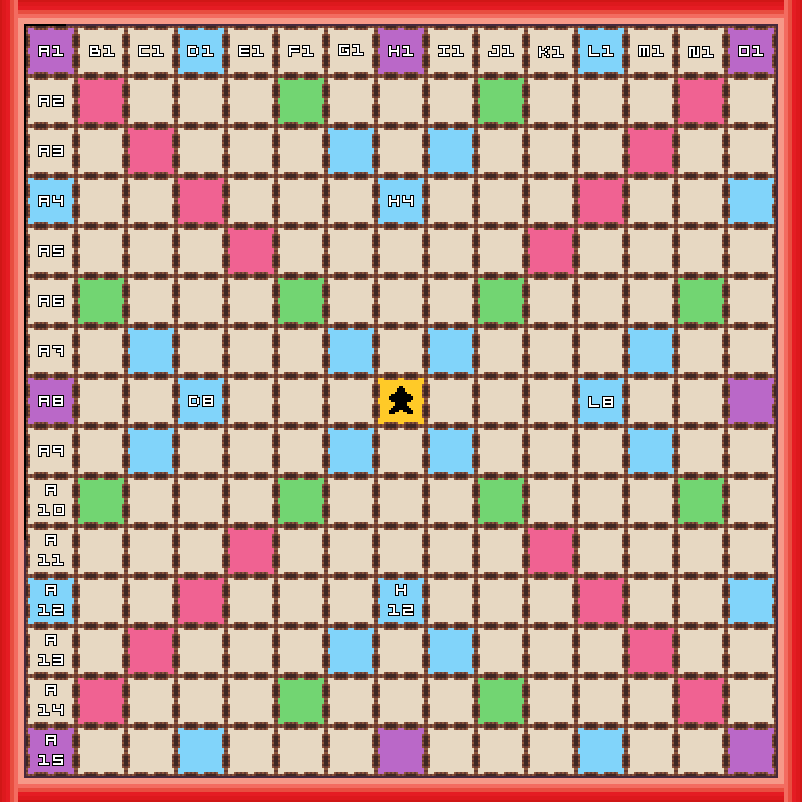
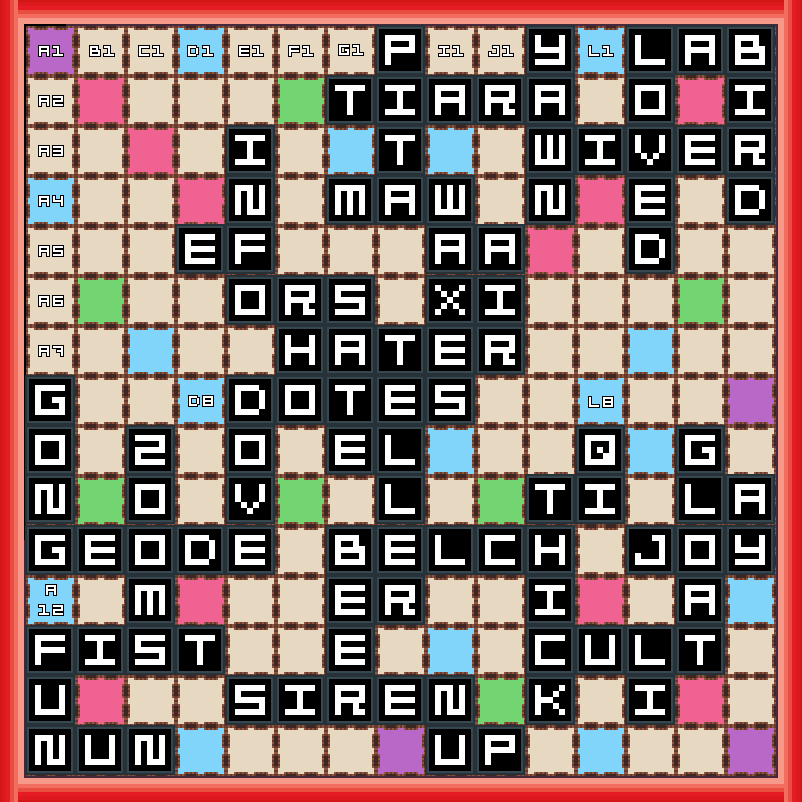
Fixes

diff --git a/RinaWordGames.py b/RinaWordGames.py
@@ -217,8 +217,8 @@ class RinaScrabble(commands.Cog):
             match = [author for author in self.players if author.discordInfo == ctx.message.author]
             if len(match) == 0:
                 await ctx.send("**🌟You are not a player in this Scrabble game and cannot start the game🌟**")
-            elif self.scrabblePlayers > 4 or self.scrabblePlayers < 2:
-                await ctx.send("**🌟There are not between 2-4 memebers in the Scrabble lobby!🌟**")
+            #elif self.scrabblePlayers > 4 or self.scrabblePlayers < 2:
+                #await ctx.send("**🌟There are not between 2-4 memebers in the Scrabble lobby!🌟**")
             else:
                 await ctx.send("**🌟Starting Game!🌟**")
                 self.scrabbleTurn = 1
@@ -294,13 +294,16 @@ class RinaScrabble(commands.Cog):
                                     pLetters += letter + " "
                                 embeded.add_field(name=player.discordInfo.nick + "'s letters:", value="||" + pLetters + "||")
                             await ctx.send(embed=embeded, file=discord.File(open(self.boardRenderDynamicPath, 'rb')))
-                            await ctx.send("**🌟Successful Entry! Words Created:🌟**")
+                            embeded = discord.Embed(description="**🌟Turn " + str(self.scrabbleTurn) + " Player " + str(self.players[self.scrabbleRotation].discordInfo.nick) + "🌟**")
+                            embeded.add_field(name="Words Created", value=str(len(validityResult[1])))
                             totalPoints = 0
                             for entry in validityResult[1]:
-                                await ctx.send(''.join(i for i in entry[0] if not i.isdigit()) + ' - Points: ' + str(entry[1]))
+                                embeded.add_field(name=''.join(i for i in entry[0] if not i.isdigit()), value='points: ' + str(entry[1]))
                                 totalPoints += entry[1]
                             self.players[self.scrabbleRotation].points += totalPoints
-
+                            embeded.add_field(name="Total points from this turn", value=str(totalPoints))
+                            embeded.add_field(name="Total player points", value=str(self.players[self.scrabbleRotation].points))
+                            embeded.add_field(name="Letters left in the bag", value=str(len(self.letterBag)))
                             self.scrabbleRotation += 1
                             if self.scrabbleRotation >= self.scrabblePlayers:
                                 self.scrabbleRotation = 0
@@ -310,7 +313,8 @@ class RinaScrabble(commands.Cog):
                                 if self.scrabbleRotation >= self.scrabblePlayers:
                                     self.scrabbleRotation = 0
                                     self.scrabbleTurn += 1
-                            await ctx.send("**🌟Player " + str(self.scrabbleRotation + 1) + " is " + self.players[self.scrabbleRotation].discordInfo.nick + "🌟**")
+                            embeded.add_field(name="Next Player", value="**" + self.players[self.scrabbleRotation].discordInfo.nick + "**")
+                            await ctx.send(embed=embeded)
                     else:
                         await ctx.send(validityResult[0])
 
@@ -343,6 +347,8 @@ class RinaScrabble(commands.Cog):
         allWords = []     
         playerTiles = []
         for i in range(len(tiles)):
+            if not self.board[tiles[i]].__contains__('*') and not self.board[tiles[i]] == word[i]:
+                return ["**🌟That word does not match with the letters on the board!🌟**", None]
             if not self.board[tiles[i]].__contains__('*'):
                 playerTiles.append(tiles[i])
             validArr = []
@@ -382,10 +388,13 @@ class RinaScrabble(commands.Cog):
         if len(playerTiles) == len(tiles) and not (self.scrabbleTurn == 1 and self.scrabbleRotation == 0):
             return ["**🌟Your word is not connected to another word!🌟**", None]
         print(allWords)
+        if len(playerTiles) == 7:
+            for entry in allWords:
+                entry[1] *= 2
         return ["valid", allWords, playerTiles]
                 
     def validate_word_branch_left(self, startTile, nextTile, buildWord, buildPoints, direction, inputWord, inputTiles):
-        print("left " + buildWord)
+        print("left " + buildWord + " " + str(buildPoints))
         tileComponents = re.split('(\d+)', nextTile)
         if not tileComponents[0] == 'a':
             nextTile = self.letters[self.letters.index(tileComponents[0]) - 1] + tileComponents[1]
@@ -394,12 +403,12 @@ class RinaScrabble(commands.Cog):
                 buildPoints += self.lettersPoints[self.board[nextTile]]
                 return self.validate_word_branch_left(startTile, nextTile, buildWord, buildPoints, direction, inputWord, inputTiles)
             else:
-                return self.validate_word_branch_right(startTile, nextTile, buildWord, buildPoints, direction, inputWord, inputTiles)
+                return self.validate_word_branch_right(startTile, startTile, buildWord, buildPoints, direction, inputWord, inputTiles)
         else:
-            return self.validate_word_branch_right(startTile, nextTile, buildWord, buildPoints, direction, inputWord, inputTiles)
+            return self.validate_word_branch_right(startTile, startTile, buildWord, buildPoints, direction, inputWord, inputTiles)
 
     def validate_word_branch_right(self, startTile, nextTile, buildWord, buildPoints, direction, inputWord, inputTiles):
-        print("right " + buildWord)
+        print("right " + buildWord + " " + str(buildPoints))
         tileComponents = re.split('(\d+)', nextTile)
         if not tileComponents[0] == 'o':
             nextTile = self.letters[self.letters.index(tileComponents[0]) + 1] + tileComponents[1]
@@ -410,8 +419,10 @@ class RinaScrabble(commands.Cog):
             elif direction == '→' and inputTiles.__contains__(nextTile):
                 buildWord += (inputWord[inputTiles.index(nextTile)])
                 if self.board[nextTile].__contains__('*w2'):
+                    buildPoints += self.lettersPoints[buildWord[len(buildWord) - 1]]
                     buildWord += '2'
                 elif self.board[nextTile].__contains__('*w3'):
+                    buildPoints += self.lettersPoints[buildWord[len(buildWord) - 1]]
                     buildWord += '3'
                 elif self.board[nextTile].__contains__('*l2'):
                     buildPoints += self.lettersPoints[buildWord[len(buildWord) - 1]] * 2
@@ -422,7 +433,7 @@ class RinaScrabble(commands.Cog):
                 return self.validate_word_branch_right(startTile, nextTile, buildWord, buildPoints, direction, inputWord, inputTiles)
             else:
                 testingWord = ''.join(i for i in buildWord if not i.isdigit())
-                print("Right 1 " + testingWord)
+                print("Right 1 " + testingWord + " " + str(buildPoints))
                 if ScrabbleWordList.__contains__(testingWord):
                     for letter in buildWord:
                         if letter == '2':
@@ -436,7 +447,7 @@ class RinaScrabble(commands.Cog):
                     return ["**🌟" + buildWord + " is not a word in the Rina Scrabble dictionary!🌟**", None]
         else:
             testingWord = ''.join(i for i in buildWord if not i.isdigit())
-            print("Right 2 " + testingWord)
+            print("Right 2 " + testingWord + " " + str(buildPoints))
             if ScrabbleWordList.__contains__(testingWord):
                 for letter in buildWord:
                     if letter == '2':
@@ -450,7 +461,7 @@ class RinaScrabble(commands.Cog):
                 return ["**🌟" + buildWord + " is not a word in the Rina Scrabble dictionary!🌟**", None]
 
     def validate_word_branch_up(self, startTile, nextTile, buildWord, buildPoints, direction, inputWord, inputTiles):
-        print("up " + buildWord)
+        print("up " + buildWord + " " + str(buildPoints))
         tileComponents = re.split('(\d+)', nextTile)
         if not tileComponents[1] == '1':
             nextTile = tileComponents[0] + self.numbers[self.numbers.index(tileComponents[1]) - 1]
@@ -459,12 +470,12 @@ class RinaScrabble(commands.Cog):
                 buildPoints += self.lettersPoints[self.board[nextTile]]
                 return self.validate_word_branch_up(startTile, nextTile, buildWord, buildPoints, direction, inputWord, inputTiles)
             else:
-                return self.validate_word_branch_down(startTile, nextTile, buildWord, buildPoints, direction, inputWord, inputTiles)
+                return self.validate_word_branch_down(startTile, startTile, buildWord, buildPoints, direction, inputWord, inputTiles)
         else:
-            return self.validate_word_branch_down(startTile, nextTile, buildWord, buildPoints, direction, inputWord, inputTiles)
+            return self.validate_word_branch_down(startTile, startTile, buildWord, buildPoints, direction, inputWord, inputTiles)
 
     def validate_word_branch_down(self, startTile, nextTile, buildWord, buildPoints, direction, inputWord, inputTiles):
-        print("down " + buildWord)
+        print("down " + buildWord + " " + str(buildPoints))
         tileComponents = re.split('(\d+)', nextTile)
         if not tileComponents[1] == '15':
             nextTile = tileComponents[0] + self.numbers[self.numbers.index(tileComponents[1]) + 1]
@@ -475,8 +486,10 @@ class RinaScrabble(commands.Cog):
             elif direction == '↓' and inputTiles.__contains__(nextTile):
                 buildWord += (inputWord[inputTiles.index(nextTile)])
                 if self.board[nextTile].__contains__('*w2'):
+                    buildPoints += self.lettersPoints[buildWord[len(buildWord) - 1]]
                     buildWord += '2'
                 elif self.board[nextTile].__contains__('*w3'):
+                    buildPoints += self.lettersPoints[buildWord[len(buildWord) - 1]]
                     buildWord += '3'
                 elif self.board[nextTile].__contains__('*l2'):
                     buildPoints += self.lettersPoints[buildWord[len(buildWord) - 1]] * 2
@@ -487,7 +500,7 @@ class RinaScrabble(commands.Cog):
                 return self.validate_word_branch_down(startTile, nextTile, buildWord, buildPoints, direction, inputWord, inputTiles)
             else:
                 testingWord = ''.join(i for i in buildWord if not i.isdigit())
-                print("Down 1 " + testingWord)
+                print("Down 1 " + testingWord + " " + str(buildPoints))
                 if ScrabbleWordList.__contains__(testingWord):
                     for letter in buildWord:
                         if letter == '2':
@@ -501,7 +514,7 @@ class RinaScrabble(commands.Cog):
                     return ["**🌟" + buildWord + " is not a word in the Rina Scrabble dictionary!🌟**", None]
         else:
             testingWord = ''.join(i for i in buildWord if not i.isdigit())
-            print("Down 2 " + testingWord)
+            print("Down 2 " + testingWord + " " + str(buildPoints))
             if ScrabbleWordList.__contains__(testingWord):
                 for letter in buildWord:
                     if letter == '2':
@@ -514,10 +527,10 @@ class RinaScrabble(commands.Cog):
             else:
                 return ["**🌟" + buildWord + " is not a word in the Rina Scrabble dictionary!🌟**", None]
 
-    def scrabble_complete(self, ctx):
-        ctx.send("**🌟Game Complete!🌟**")
+    async def scrabble_complete(self, ctx):
+        await ctx.send("**🌟Game Complete!🌟**")
         winner = None
-        for player in self.scrabblePlayers:
+        for player in self.players:
             if winner == None or winner.points < player.points:
                 winner = player
             ctx.send("**🌟" + player.discordInfo.nick + " had " + str(player.points) + " points!🌟**")

diff --git a/RinaCore.py b/RinaCore.py
@@ -229,7 +229,7 @@ class RinaCore(commands.Cog):
         await ctx.send(emojiUTF16)
 
     @commands.command(name='current-emotion')
-    async def emotion(ctx):
+    async def emotion(self, ctx):
         """
         Overview: Take an html hex code for an emoji from an api endpoint,
         convert it to utf-16, and then send it to be displayed as an emote in Discord
